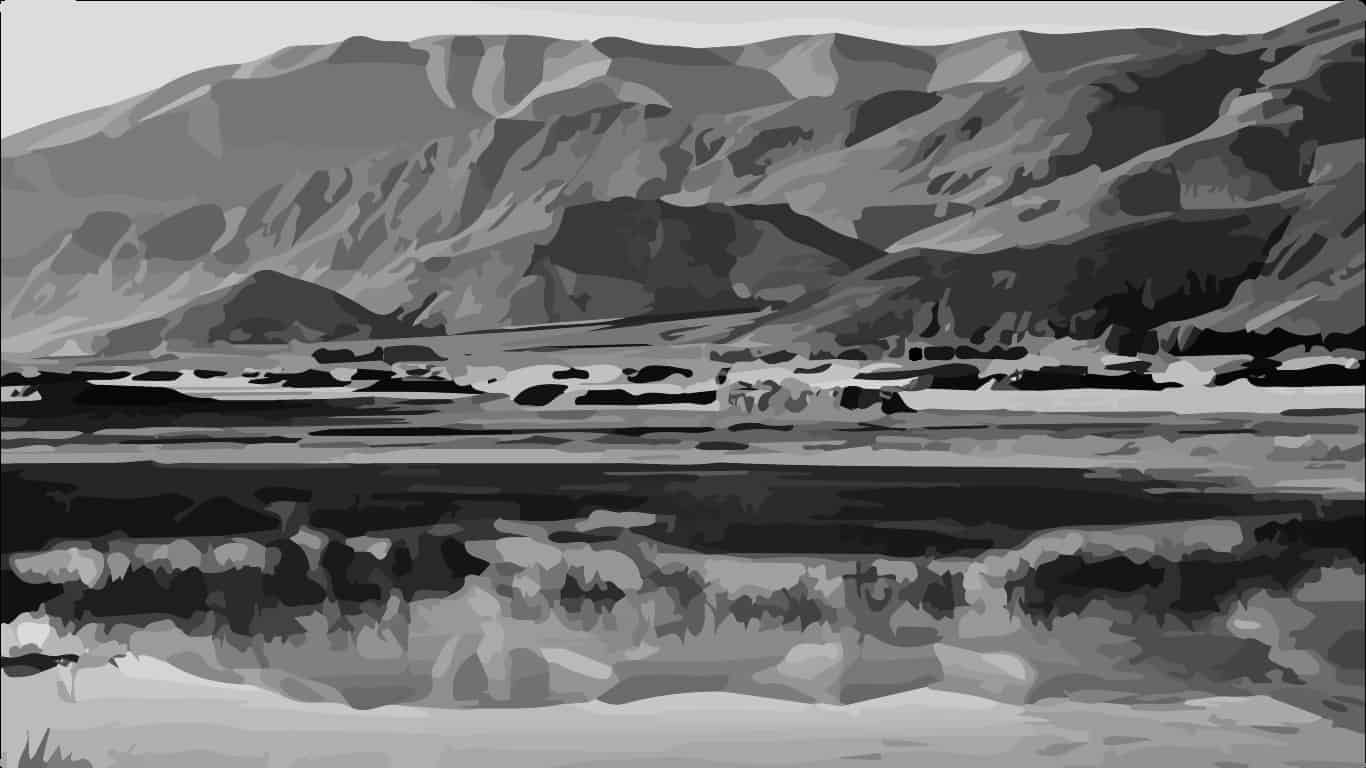
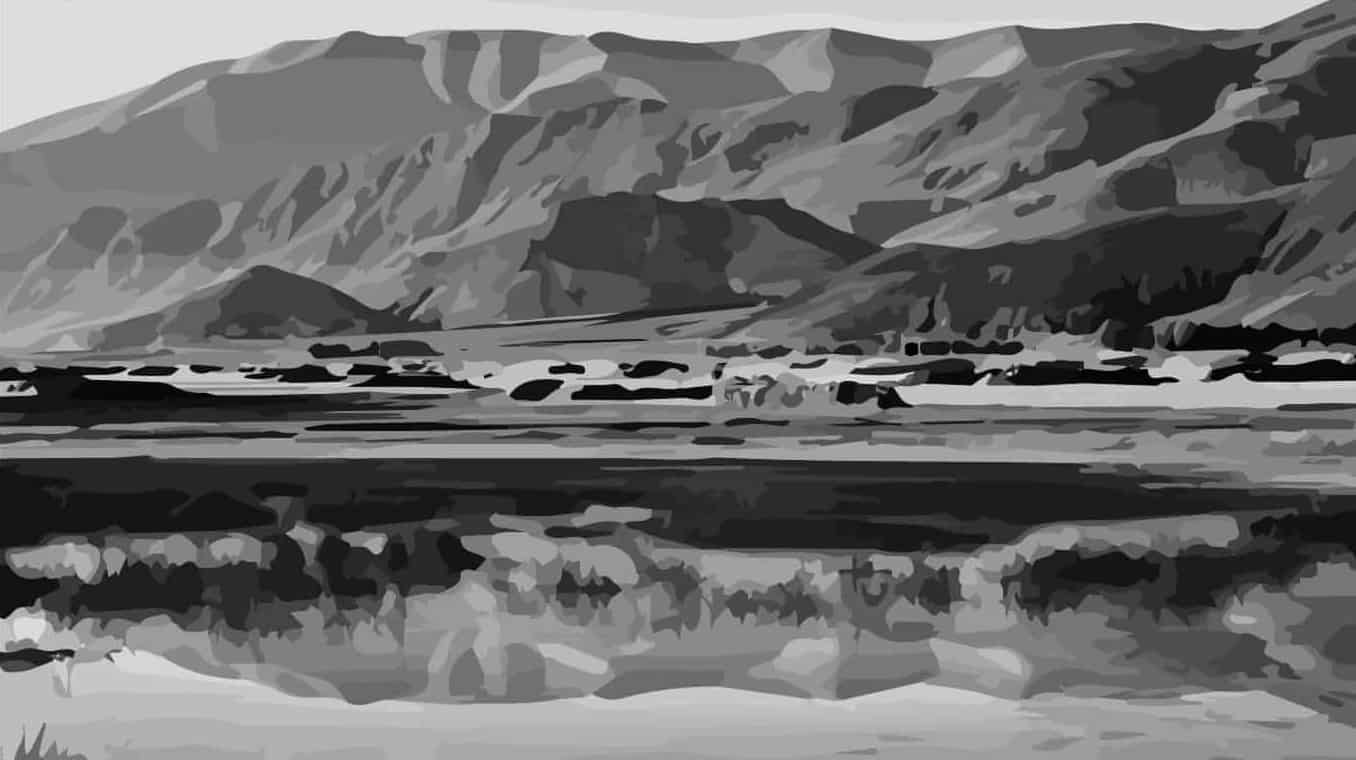
WIP. Section0_HeroSection. crop hero image and update layout

diff --git a/src/components/sections/Section0_HeroSection.tsx b/src/components/sections/Section0_HeroSection.tsx
@@ -42,17 +42,17 @@ const extensionMsAtom: LatestExtension = {
     icon: <IconMsLogo className="w-8 h-8" />,
 };
 
-function HeroImage() {
-    return (
-        <div>
-            <img className="h-full object-cover grayscale" src={HERO_IMAGE} alt="hero" />
-        </div>
-    );
-}
-
 const boxShadow = {
     boxShadow: '0 2px 1px -1px rgba(0,0,0,.2), 0 1px 1px 0 rgba(0,0,0,.14), 0 1px 3px 0 rgba(0,0,0,.12)'
 };
+
+function HeroImage() {
+    return (
+        <div className="bg-slate-400" style={{...boxShadow, transition: "all .2s"}}>
+            <img className="h-full object-cover grayscale border border-slate-300 border-b-slate-400" src={HERO_IMAGE} alt="hero" />
+        </div>
+    );
+}
 
 function CurrentVersion({ extension, inAppExtnInfo }: { extension: LatestExtension, inAppExtnInfo: InAppExtnInfo; }) {
     const confettiRef = React.useRef<HTMLButtonElement>(null);
@@ -109,7 +109,7 @@ function CurrentVersions() {
 
 export function Section0_HeroSection() {
     return (
-        <div className="mt-4 grid grid-cols-[minmax(8rem,1fr),minmax(12rem,28rem)] gap-4">
+        <div className="mt-4 mb-3 h-60 grid grid-cols-[minmax(8rem,1fr),minmax(12rem,28rem)] gap-4">
             <HeroImage />
             <CurrentVersions />
         </div>
